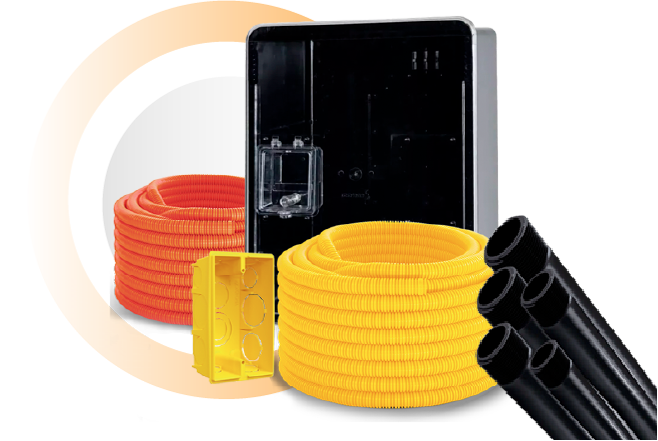
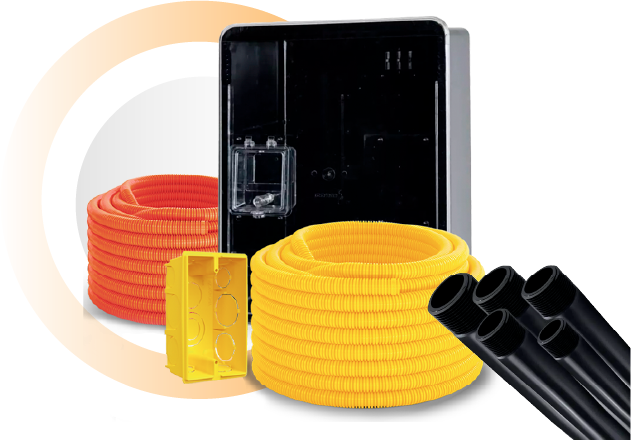
desktop finalizado

diff --git a/src/app/components/body.jsx b/src/app/components/body.jsx
@@ -1,7 +1,7 @@
 import Image from "next/image"
 import BgImage from '../assets/background.png'
-import SeloQualidade from "../assets/Selo qualidade 1.svg"
-import AtendimentoIcon from "../assets/atendimento 1.svg"
+import SeloQualidade from "../assets/SeloQualidade.png"
+import AtendimentoIcon from "../assets/atendimento.png"
 import IconeEstrela from "../assets/iconeestrela.png"
 import IconeGoogle from "../assets/icone do Google.png"
 import IconeEmpresas from "../assets/Logos completos mobile.png"
@@ -28,68 +28,69 @@ export default function body () {
         <div className="text-center">
 
             {/*  Início da primeira tela */}
-            <div className="text-center justify-center xl:max-h-[60vh] md:max-h-[45vh]">
+            <div className="text-center justify-center xl:max-h-[60vh] md:max-h-[30vh]">
                 <Image className='inline md:hidden' src={BgImage} alt={'background'}  ></Image>
                 <Image className=' hidden md:block w-full' src={BackgroundDesktop}></Image>
                 <Botao></Botao>
             </div>
-            <div className="md:flex justify-center xl:gap-60 ">
-            <div className="text-center md:text-left md:text-4xl text-gray md:text-primary-orange font-extrabold text-lg md:text-2xl md:flex-col  md:mt-20 xl:mt-36 md:pl-10 ">
+            <div className="md:flex justify-between 2xl:mt-10 ">
+            <div className="text-center md:text-left md:text-2xl xl:text-4xl text-gray md:text-primary-orange font-extrabold text-lg md:flex-col md:pl-10 xl:mt-24">
                 <p>Está a procura de <span className="text-primary-orange font-extrabold md:bg-gray md:rounded-xl md:px-1"> materiais elétricos</span></p>
                 <p>para todas as fases da sua obra?</p>
                 <div className="bg-primary-orange ml-40 w-14 h-1.5 rounded-full mt-2 md:hidden "></div>
-                <p className="font-extrabold text-xl mt-10 md:text-left md:text-gray md:font-normal md:text-2xl">Prazer, somos a <span className="md:font-bold">girolux!</span></p> 
-                <div className="bg-gray w-14 h-1 rounded-full hidden md:block"></div>
+                <p className="font-extrabold text-xl mt-1 md:text-left md:text-gray md:font-normal xl:text-3xl">Prazer, somos a <span className="md:font-bold">Girolux!</span></p> 
+                <div className="bg-gray w-16 h-1 rounded-full hidden md:block"></div>
             </div>
-            <div className="text-center md:h-[50vh] bg-primary-orange md:bg-white mt-10 py-10 text-gray md:mr-10"> 
+
+            <div className="text-center bg-primary-orange md:bg-white text-gray md:mr-10 pt-5 md:text-xl"> 
                 <div className=' md:flex gap-5'>
-                    <div className="bg-primary-orange flex md:flex-col justify-center text-center rounded-2xl xl:h-[30vh] xl:w-[34vh] xl:h-[30vh]">
-                    <div className="md:pl-20 xl:pl-32 pr-3 pb-5"><Image className="mt-3" src={AtendimentoIcon} alt="icone-atendimento"></Image></div>
-                    <div className="text-left md:text-center mt-1">
-                        <p className="font-bold">Atendimento de excelência</p>
-                        <p className="text-white">Profissionais capacitados com </p>
-                        <p className="text-white">anos de experiência no mercado.</p>
-                    </div>
-                    </div>
-                <div className=" bg-primary-orange flex md:flex-col justify-center text-center rounded-2xl xl:h-[30vh] xl:w-[34vh] mt-5 md:mt-0">     
-                <div className="xl:ml-36 mt-3 -ml-5 md:ml-20 pb-5"><Image  className="mt-1" src={SeloQualidade} alt='icone-qualidade'></Image></div>
-                        <div className="text-left md:text-center mt-1 pl-6">
-                            <p className="font-bold"> Produtos de Qualidade</p>
-                            <p className="text-white">Encontre marcas renomadas</p>
-                            <p className="text-white"> e garantia de fabricação</p>
+                        <div className="bg-primary-orange flex md:flex-col text-center rounded-3xl  ">
+                            <div className="scale-50 md:scale-90 flex justify-center"><Image className="mt-3" src={AtendimentoIcon} alt="icone-atendimento"></Image></div>
+                            <div className="text-left md:text-center py-5 lg:px-5">
+                                <p className="font-bold lg:text-2xl">Atendimento de excelência</p>
+                                <p className="text-white">Profissionais capacitados com </p>
+                                <p className="text-white font-semibold">anos de experiência no mercado.</p>
+                            </div>
                         </div>
-                </div>
-            </div> 
+                        <div className=" bg-primary-orange flex md:flex-col text-center rounded-3xl">
+                            <div className="scale-50 md:scale-90 flex justify-center pt-4"><Image className="mt-1" src={SeloQualidade} alt='icone-qualidade'></Image></div>
+                            <div className="text-left md:text-center mt-5 lg:px-12">
+                                <p className="font-bold lg:text-2xl"> Produtos de qualidade</p>
+                                <p className="text-white">Encontre <span className="font-semibold">marcas renomadas</span></p>
+                                <p className="text-white font-semibold"> e garantia de fabricação</p>
+                            </div>
+                        </div>
+                </div> 
             </div> 
             </div>
             {/*  Final da primeira tela */}
 
-            <div className="mt-2 flex justify-center">
+            <div className="mt-2 flex justify-center md:mt-10">
                 <div className="bg-primary-orange w-1.5 h-14 rounded-full mt-2 md:hidden "></div>
                 <div className="text-left md:text-center ml-2 ">
-                    <h1 className="font-extrabold text-gray mt-2 text-xl md:font-black md:text-4xl">Está construindo ou reformando?</h1>
-                    <p className=" text-primary-orange font-bold md:font-black md:text-2xl ">Nosso compromisso é com seu lar único</p>
+                    <h1 className="font-extrabold text-gray mt-6 text-xl md:font-black md:text-4xl">Está construindo ou reformando?</h1>
+                    <p className=" text-primary-orange font-bold md:font-bold md:text-2xl ">Nosso compromisso é com seu lar único!</p>
                 </div>
             </div>
             
-             {/*  Início da segunda tela */}
+             {/*  Início da infraestrutura */}
 
-            <div className="mt-5 bg-primary-orange h-[50vh] gap-6 flex justify-center md:justify-between">
+            <div className="mt-5 bg-primary-orange md:h-[45] xl:h-[50vh] gap-6 flex justify-center md:justify-between">
                 <div className="text-left md:ml-20">
-                    <div className="pt-10 pl-5 text-white font-extrabold text-3xl xl:text-6xl text-center">
+                    <div className="pt-10 pl-5 text-white font-extrabold text-3xl xl:text-6xl text-left">
                         <p>Tudo em</p>
                         <p>infraestrutura!</p>
                     </div>
-                    <div className="ml-5 mt-10 text-gray flex font-medium xl:text-2xl ">
+                    <div className="ml-5 mt-10 text-gray flex font-medium xl:text-4xl gap-14 ">
                         <div>
-                            <div className="mt-4">
+                            <div className="lg:mt-6  xl:mt-10">
                                 <p>Tubulação</p>
-                                <div className="bg-gray w-10 h-1 rounded-full mt-3"></div>
+                                <div className="bg-gray w-20 h-1 rounded-full mt-3"></div>
                             </div>
                             <div className="mt-5">
                                 <p>Padrão</p>
                                 <p>de energia</p>
-                                <div className="bg-gray w-10 h-1 rounded-full mt-1"></div>
+                                <div className="bg-gray w-20 h-1 rounded-full mt-3"></div>
                                 
                             </div>
                         </div>
@@ -97,17 +98,17 @@ export default function body () {
                             <div>
                                 <p>Eletrodutos</p>
                                 <p>Corrugados</p>
-                                <div className="bg-gray w-10 h-1 rounded-full mt-1"></div>
+                                <div className="bg-gray w-20 h-1 rounded-full mt-3"></div>
                                 <div className="mt-5">
                                 <p>Quadros</p>
                                 <p>de distribuição</p>
-                                <div className="bg-gray w-10 h-1 rounded-full mt-1"></div>
+                                <div className="bg-gray w-20 h-1 rounded-full mt-3"></div>
                                 </div>
                             </div>       
                         </div>     
                     </div>
                 </div>
-                <div className="hidden md:flex">
+                <div className="hidden md:flex md:max-w-lg xl:max-w-full">
                 <Image src={IMGInfraestrutura} className="mt-4"></Image>
                 </div>
             </div>
